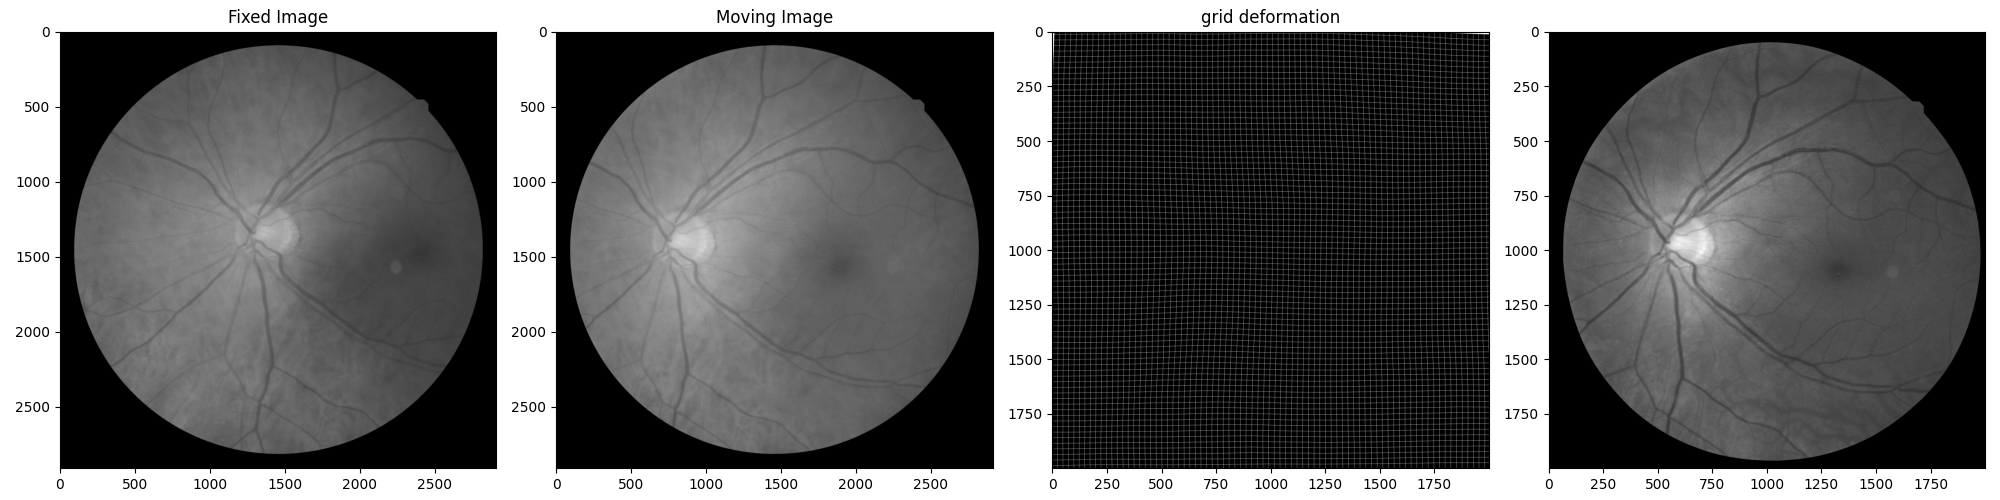
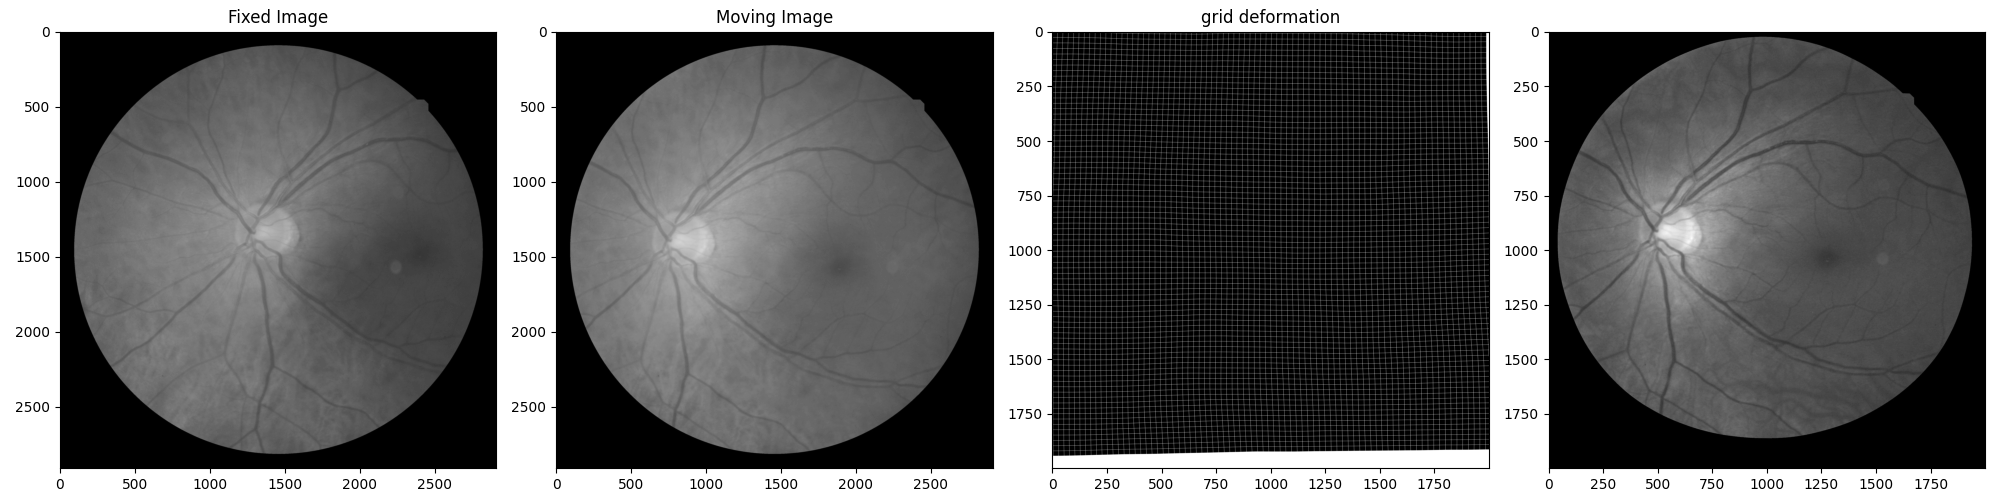
general

diff --git a/utils/general.py b/utils/general.py
@@ -410,7 +410,7 @@ def load_image_FIRE(index, folder):
 
 def deform_single_point(x, y, x_indices, y_indices, img_size):
     height, width = img_size
-    
+    print(img_size)
     # scale dfv to img_size
     x_indices_scaled = (x_indices + 1) * (height - 1) * 0.5
     y_indices_scaled = (y_indices + 1) * (width - 1) * 0.5
@@ -451,7 +451,7 @@ def deform_single_point(x, y, x_indices, y_indices, img_size):
     return new_x, new_y
 
 
-def compute_point(net, points, size=1000):
+def compute_point(net, points, size=2000):
     coordinate_tensor = torch.FloatTensor(points / (size)) - 1.0
     output = net(coordinate_tensor.cuda())
     delta = output.cpu().detach().numpy() * (size)
@@ -474,9 +474,14 @@ def test_FIRE(dfv, ground_truth, vol_shape, save_path, img, fixed_image, moving_
     axes[1].set_title('Moving Image')    
 
     resized_image = cv2.resize(moving_image.detach().cpu().numpy(), (1000, 1000))
-    #img
+    resized_image2 = cv2.resize(img, (2912, 2912))
     
-    axes[2].imshow(img, cmap='gray')
+    #grid =  torch.from_numpy(pystrum.pynd.ndutils.bw_grid((2912, 2912), spacing=24, thickness=1))
+    #dfv = torch.from_numpy(dfv)
+    #tr1 = bilinear_interpolation(grid, dfv[:, 0], dfv[:, 1])
+    #tr1 = tr1.reshape(vol_shape).numpy()
+
+    axes[2].imshow(resized_image2, cmap='gray')
     axes[2].set_title('Registered Image')
     
     dfv=dfv.reshape((vol_shape[0], vol_shape[1], 2))
@@ -484,10 +489,9 @@ def test_FIRE(dfv, ground_truth, vol_shape, save_path, img, fixed_image, moving_
     #dfv[:, :, 0] = 500  # x-displacement
     #dfv[:, :, 1] = 0
 
-    import json
-
-    with open('dfv.json', 'w') as f:
-        json.dump(dfv.tolist(), f, indent=2)
+    #import json
+    #with open('dfv.json', 'w') as f:
+    #    json.dump(dfv.tolist(), f, indent=2)
 
     for points in ground_truth:
         x= float(points[0])
@@ -501,18 +505,17 @@ def test_FIRE(dfv, ground_truth, vol_shape, save_path, img, fixed_image, moving_
         y_truth_s=y_truth*scale
         x_s=x*scale
         y_s=y*scale
-
-        #dx, dy = dfv[int(y_truth), int(x_truth)]  #*vol_shape *scale
-        #x_res = x_truth + dx
-        #y_res = y_truth + dy
-
-        x_res, y_res = deform_single_point(x_truth_s, y_truth_s, dfv[:,:,0], dfv[:,:,0], (vol_shape[0], vol_shape[1]))
+        dx, dy = dfv[int(y_truth_s), int(x_truth_s)]    * scale
+        print(dx, dy)
+        x_res = x_truth + dx
+        y_res = y_truth + dy
+        #x_res, y_res = deform_single_point(x_truth_s, y_truth_s, dfv[:,:,0], dfv[:,:,1], (vol_shape[0], vol_shape[1]))
 
         #x_res, y_res = compute_point(net, np.array([x_truth, y_truth]))
 
         #print("x: {} y: {} x_truth: {} y_truth: {} x_res: {} y_res:{} ".format(x, y, x_truth, y_truth, x_res, y_res))
-        dist = np.linalg.norm(np.array((x_truth, y_truth)) - np.array((x_res, y_res)))
-        axes[2].scatter(x_truth_s, y_truth_s, c='g', s=1)  # Registered image points
+        dist = np.linalg.norm(np.array((x_truth, y_truth)) - np.array((x_res, y_res))) # escala correcta¿
+        axes[2].scatter(x_truth, y_truth, c='g', s=1)  # Registered image points
         #axes[2].scatter(x, y, c='2', s=1)  # Registered image points
         axes[2].scatter(x_res, y_res, c='b', s=3)  # Registered image points 
         dists.append(dist)

diff --git a/run.py b/run.py
@@ -20,7 +20,7 @@ for i in range(20, 21):
     kwargs = {}
     kwargs["loss_function"] = "ncc" #mse, l1, ncc, smoothl1, ssim, huber
     kwargs["lr"] = 0.00002
-    kwargs["epochs"] = 100    #2500
+    kwargs["epochs"] = 0    #2500
     kwargs["batch_size"] = 20000    #10000
     kwargs["image_shape"] = [2000, 2000]
     kwargs["hyper_regularization"] = False

diff --git a/README.md b/README.md
@@ -41,7 +41,6 @@
   [ 0.744594    0.7082263 ]]]
 
 
-
 - evals
   - desplazamiento 0 epochs algo hay -> weights are initialized on netwroks.py -> are those good? (los d MLP arriba izq siempre?)
     - DFVs -> are they scale dependant? no lo entiendo aun
